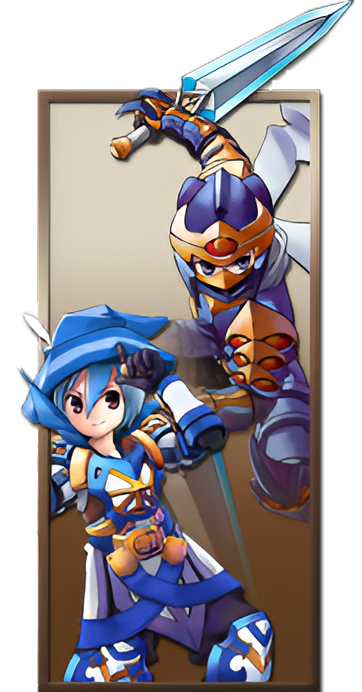
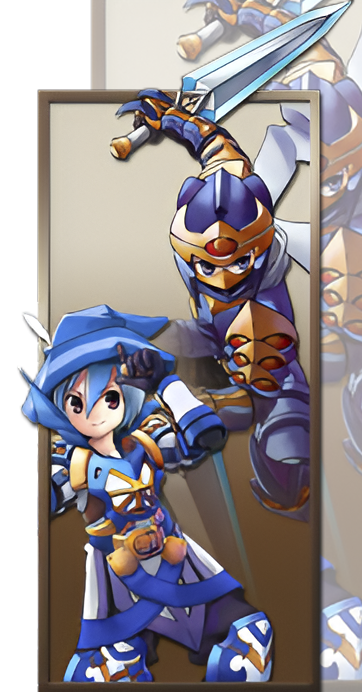
Updating classes component

diff --git a/src/components/classes.jsx b/src/components/classes.jsx
@@ -4,6 +4,7 @@ import { useState, useRef } from 'react';
 import { gsap } from 'gsap';
 import Image from 'next/image';
 import ClassesCard from './classesCard';
+import '../css/classes.css';
 
 export default function Classes() {
   const [currentIndex, setCurrentIndex] = useState(0);
@@ -25,11 +26,13 @@ export default function Classes() {
   };
 
   return (
-    <section className='flex flex-col justify-center w-full background'>
-      <h1 className='text-4xl text-center'>Classes</h1>
+    <section className='flex flex-col justify-center px-4 w-full'>
+      <h1 className='px-4 py-1 mt-4 w-full text-3xl text-white border-8 border-white bg-navbar'>
+        CLASSES
+      </h1>
 
-      <section className='flex justify-center'>
-        <article className={`flex justify-center class-card`} id='class-0'>
+      <section className='flex justify-center py-5 mt-9 w-full h-full bg-white'>
+        <article className={`flex justify-center class-card warrior`} id='class-0'>
           <ClassesCard
             path1={'BERSERKER'}
             path2={'PALADIN'}
@@ -40,7 +43,7 @@ export default function Classes() {
           />
         </article>
 
-        <article className={`hidden justify-center class-card`} id='class-1'>
+        <article className={`hidden justify-center class-card archer`} id='class-1'>
           <ClassesCard
             path1={'RANGER'}
             path2={'ASSASSIN'}
@@ -51,7 +54,7 @@ export default function Classes() {
           />
         </article>
 
-        <article className={`hidden justify-center class-card`} id='class-2'>
+        <article className={`hidden justify-center class-card priest`} id='class-2'>
           <ClassesCard
             path1={'CLERIC'}
             path2={'SAGE'}
@@ -62,7 +65,7 @@ export default function Classes() {
           />
         </article>
 
-        <article className={`hidden justify-center class-card`} id='class-3'>
+        <article className={`hidden justify-center class-card mage`} id='class-3'>
           <ClassesCard
             path1={'WIZARD'}
             path2={'NECROMANCER'}
@@ -73,7 +76,7 @@ export default function Classes() {
           />
         </article>
 
-        <article className={`hidden justify-center class-card`} id='class-4'>
+        <article className={`hidden justify-center class-card mechanic`} id='class-4'>
           <ClassesCard
             path1={'DEMOLITIONIST'}
             path2={'ENGINEER'}
@@ -84,7 +87,7 @@ export default function Classes() {
           />
         </article>
 
-        <article className={`hidden justify-center class-card`} id='class-5'>
+        <article className={`hidden justify-center class-card traveler`} id='class-5'>
           <ClassesCard
             path1={'TIME TRAVELER'}
             path2={'VOID RUNNER'}
@@ -96,9 +99,9 @@ export default function Classes() {
         </article>
       </section>
 
-      <article className='flex justify-center'>
-        <ul className='flex gap-5 p-5'>
-          <li onClick={() => showClass(0)}>
+      <article className='flex justify-center mt-9 border-8 border-white bg-navbar'>
+        <ul className='flex gap-5'>
+          <li onClick={() => showClass(0)} className='cursor-pointer'>
             <Image
               src={'/classes/warrior-thumbs.png'}
               alt={'Warrior'}
@@ -106,7 +109,7 @@ export default function Classes() {
               height={100}
             />
           </li>
-          <li onClick={() => showClass(1)}>
+          <li onClick={() => showClass(1)} className='cursor-pointer'>
             <Image
               src={'/classes/archer-thumbs.png'}
               alt={'Archer'}
@@ -114,7 +117,7 @@ export default function Classes() {
               height={100}
             />
           </li>
-          <li onClick={() => showClass(2)}>
+          <li onClick={() => showClass(2)} className='cursor-pointer'>
             <Image
               src={'/classes/priest-thumbs.png'}
               alt={'Priest'}
@@ -122,7 +125,7 @@ export default function Classes() {
               height={100}
             />
           </li>
-          <li onClick={() => showClass(3)}>
+          <li onClick={() => showClass(3)} className='cursor-pointer'>
             <Image
               src={'/classes/mage-thumbs.png'}
               alt={'Mage'}
@@ -130,7 +133,7 @@ export default function Classes() {
               height={100}
             />
           </li>
-          <li onClick={() => showClass(4)}>
+          <li onClick={() => showClass(4)} className='cursor-pointer'>
             <Image
               src={'/classes/machinist-thumbs.png'}
               alt={'Machinist'}
@@ -138,9 +141,9 @@ export default function Classes() {
               height={100}
             />
           </li>
-          <li onClick={() => showClass(5)}>
+          <li onClick={() => showClass(5)} className='cursor-pointer'>
             <Image
-              src={'/classes/warrior-thumbs.png'}
+              src={'/classes/traveler-thumbs.png'}
               alt={'Warrior'}
               width={100}
               height={100}

diff --git a/src/css/classes.css b/src/css/classes.css
@@ -1,0 +1,45 @@
+.warrior {
+  background-image: url('/classes/warriorbg.png');
+  background-repeat: no-repeat;
+  background-position: 20px;
+  background-size: contain;
+}
+
+.archer {
+  background-image: url('/classes/archerbg.png');
+  background-repeat: no-repeat;
+  background-position: -30px;
+  background-position-y: -15px;
+  background-size: contain;
+}
+
+.priest {
+  background-image: url('/classes/priestbg.png');
+  background-repeat: no-repeat;
+  background-position: -20px;
+  background-position-y: -15px;
+  background-size: contain;
+}
+
+.mage {
+  background-image: url('/classes/magebg.png');
+  background-repeat: no-repeat;
+  background-position: -30px;
+  background-position-y: -25px;
+  background-size: contain;
+}
+
+.mechanic {
+  background-image: url('/classes/machinistbg.png');
+  background-repeat: no-repeat;
+  background-position: 20px;
+  background-position-y: -5px;
+  background-size: contain;
+}
+
+.traveler {
+  background-image: url('/classes/keymaster.png');
+  background-repeat: no-repeat;
+  background-position: -20px;
+  background-size: contain;
+}

diff --git a/src/app/page.jsx b/src/app/page.jsx
@@ -4,15 +4,30 @@ import News from '../components/news';
 import Classes from '../components/classes';
 import Features from '../components/features';
 import Footer from '../components/footer';
+import Image from 'next/image';
 
 export default function Main() {
   return (
     <main className='flex flex-col justify-center items-center bg-green'>
       <Navbar />
       <Home />
-      <section className='flex flex-col border-8 border-white bg-background'>
+      <section className='flex flex-col w-full max-w-[1250px] border-8 border-white bg-background'>
         <News />
+        <Image
+          src={'/divider-8557901.svg'}
+          alt='divider'
+          width={500}
+          height={100}
+          className='self-center mb-5'
+        />
         <Classes />
+        <Image
+          src={'/divider-8557901.svg'}
+          alt='divider'
+          width={500}
+          height={100}
+          className='self-center m-5'
+        />
         <Features />
       </section>
       <Footer />

diff --git a/src/components/news.jsx b/src/components/news.jsx
@@ -2,7 +2,7 @@ import NewsCard from './newsCard';
 
 export default function News() {
   return (
-    <section className='flex flex-col justify-center items-center px-4 w-full max-w-[1250px]'>
+    <section className='flex flex-col justify-center items-center px-4 w-full'>
       <h1 className='px-4 py-1 mt-4 w-full text-3xl text-white border-8 border-white bg-navbar'>
         NEWS
       </h1>
